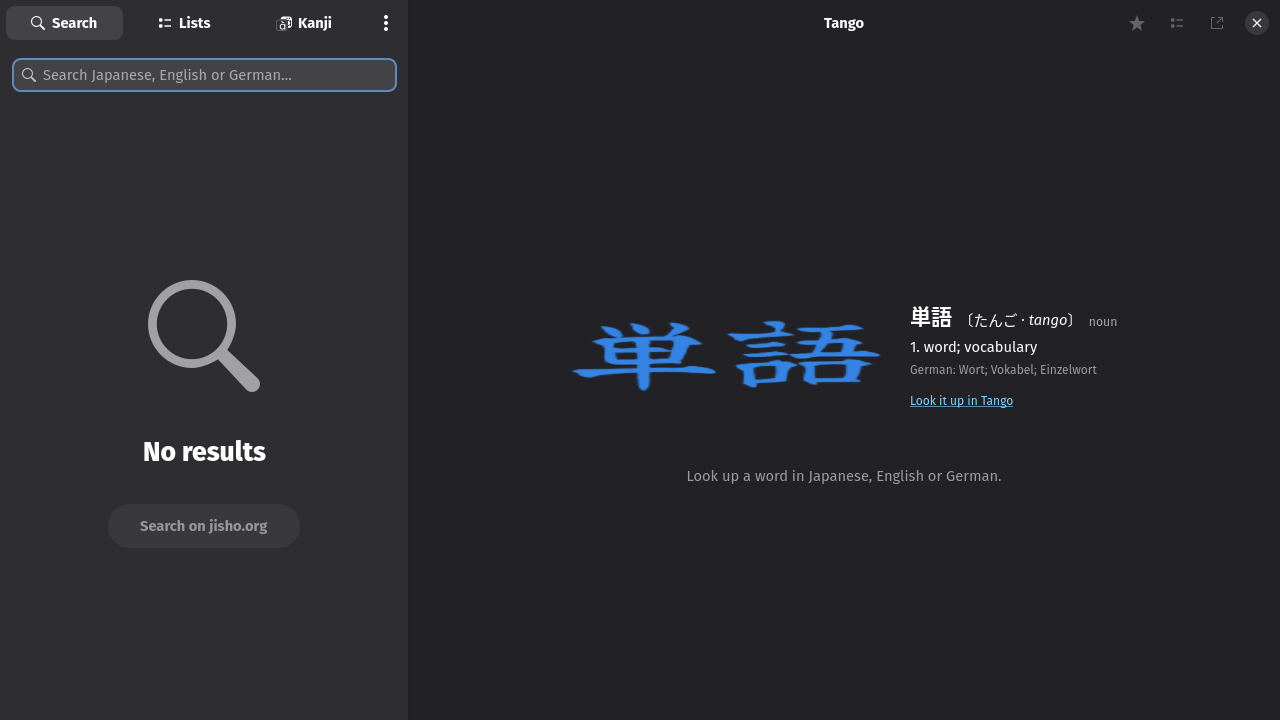
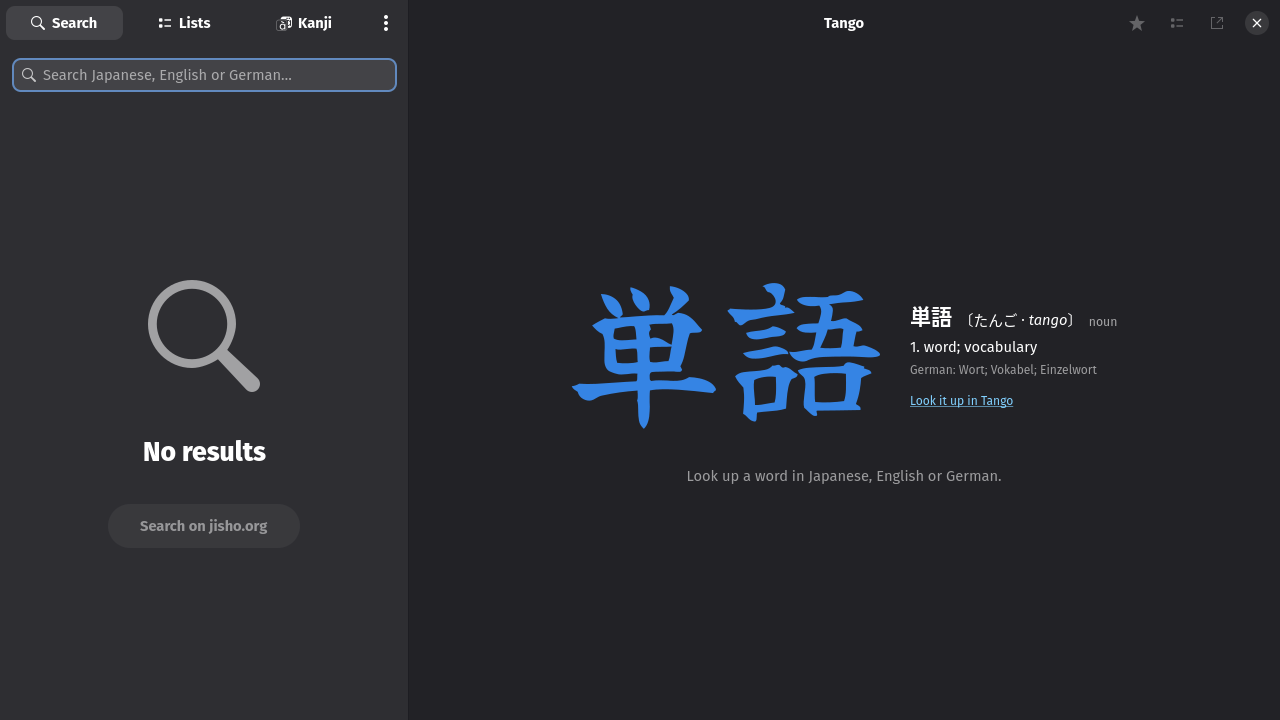
ui: draw the start screen calligraphy with cairo, it was squashed (#88)
Pull request #90

Claude-Session: https://claude.ai/code/session_01Gwn59LpQtxt64Zbwfh7gKE

Changed region(s): [[0.4375, 0.3972, 0.6875, 0.5806]]

diff --git a/src/ui/style.css b/src/ui/style.css
@@ -1,9 +1,5 @@
-/* Start screen (#80): the calligraphy is a symbolic SVG painted in the accent colour;
-   src/ui/start.rs adds the background-image rule with the file's location. */
-.tango-calligraphy {
-  color: @accent_bg_color;
-  background-size: contain; background-repeat: no-repeat; background-position: center;
-}
+/* Start screen (#80): the calligraphy is drawn with cairo in this colour. */
+.tango-calligraphy { color: @accent_bg_color; }
 .tango-calligraphy-fallback { font-size: 110px; color: @accent_bg_color; }
 /* Entry view */
 .tango-headword { font-size: 2.6em; font-weight: 300; }

diff --git a/src/ui/start.rs b/src/ui/start.rs
@@ -1,18 +1,18 @@
 //! The start screen (issue #80): the name of the app as a dictionary entry, with 単語 in
 //! brush calligraphy beside it, the way DenMail introduces itself.
 //!
-//! The calligraphy is a symbolic SVG in `data/icons` (glyph outlines of Yuji Syuku, OFL).
-//! It is painted as a CSS background through `-gtk-recolor`, which fills a symbolic icon
-//! with the node's `color`; the stylesheet sets that to the accent colour, so every theme
-//! gets its own tint and dark or light needs no second file. A `gtk::Image` would do the
-//! recolouring too, but it renders icons into a square, and this one is twice as wide as
-//! it is high.
+//! The calligraphy is `data/calligraphy.svg`, the glyph outlines of Yuji Syuku (OFL),
+//! compiled in and drawn with cairo in a `gtk::DrawingArea`, filled with the widget's CSS
+//! `color` (the accent colour, see style.css). Drawing it ourselves keeps the aspect ratio
+//! at any size and scale factor: GTK renders symbolic icons into a square before it
+//! recolours them, which squashed a 2:1 image (issue #88), and a `gtk::Image` would report a
+//! square size too.
 
 use adw::prelude::*;
-use gtk::{gdk, glib};
+use gtk::{cairo, glib};
 
-/// Icon name of the calligraphy; the SVG sits next to the app icon.
-const CALLIGRAPHY: &str = "io.github.felsenuboot.Tango-calligraphy-symbolic";
+/// The calligraphy: only `<path transform="translate(x y)" d="M … C … L … Z">` elements.
+const SVG: &str = include_str!("../../data/calligraphy.svg");
 /// Size of the calligraphy in logical pixels, the SVG's own aspect ratio.
 const WIDTH: i32 = 312;
 const HEIGHT: i32 = 150;
@@ -97,54 +97,170 @@ fn line(text: &str) -> gtk::Label {
         .build()
 }
 
-/// The calligraphy, or the two characters in a large font when the SVG is not installed.
+/// The calligraphy, drawn with cairo; the plain characters if the SVG does not parse.
 fn calligraphy() -> gtk::Widget {
-    let Some(display) = gdk::Display::default() else {
-        return fallback();
+    let Some(art) = Art::parse(SVG) else {
+        log::warn!("calligraphy SVG did not parse; showing plain text");
+        return gtk::Label::builder()
+            .label("単語")
+            .css_classes(["tango-calligraphy-fallback"])
+            .accessible_role(gtk::AccessibleRole::Presentation)
+            .build()
+            .upcast();
     };
-    let theme = gtk::IconTheme::for_display(&display);
-    if !theme.has_icon(CALLIGRAPHY) {
-        log::warn!("calligraphy icon {CALLIGRAPHY} not found; showing plain text");
-        return fallback();
-    }
-    let icon = theme.lookup_icon(
-        CALLIGRAPHY,
-        &[],
-        HEIGHT,
-        1,
-        gtk::TextDirection::Ltr,
-        gtk::IconLookupFlags::empty(),
-    );
-    let Some(uri) = icon.file().map(|f| f.uri()) else {
-        return fallback();
-    };
-    // The file's location is only known at run time (checkout or install prefix), so this
-    // one rule is added here rather than in style.css.
-    let provider = gtk::CssProvider::new();
-    provider.load_from_string(&format!(
-        ".tango-calligraphy {{ background-image: -gtk-recolor(url(\"{uri}\")); }}"
-    ));
-    gtk::style_context_add_provider_for_display(
-        &display,
-        &provider,
-        gtk::STYLE_PROVIDER_PRIORITY_APPLICATION,
-    );
-    gtk::Box::builder()
-        .width_request(WIDTH)
-        .height_request(HEIGHT)
+    let area = gtk::DrawingArea::builder()
+        .content_width(WIDTH)
+        .content_height(HEIGHT)
         .halign(gtk::Align::Center)
         .valign(gtk::Align::Center)
         .css_classes(["tango-calligraphy"])
         .accessible_role(gtk::AccessibleRole::Presentation)
-        .build()
-        .upcast()
+        .build();
+    area.set_draw_func(move |area, cr, width, height| {
+        let scale = (f64::from(width) / art.width).min(f64::from(height) / art.height);
+        cr.translate(
+            (f64::from(width) - art.width * scale) / 2.0,
+            (f64::from(height) - art.height * scale) / 2.0,
+        );
+        cr.scale(scale, scale);
+        cr.translate(-art.x, -art.y);
+        let colour = area.color();
+        cr.set_source_rgba(
+            f64::from(colour.red()),
+            f64::from(colour.green()),
+            f64::from(colour.blue()),
+            f64::from(colour.alpha()),
+        );
+        art.draw(cr);
+        let _ = cr.fill();
+    });
+    area.upcast()
 }
 
-fn fallback() -> gtk::Widget {
-    gtk::Label::builder()
-        .label("単語")
-        .css_classes(["tango-calligraphy-fallback"])
-        .accessible_role(gtk::AccessibleRole::Presentation)
-        .build()
-        .upcast()
+/// One glyph: where it sits, and its outline as absolute path commands.
+struct Glyph {
+    dx: f64,
+    dy: f64,
+    commands: Vec<Command>,
+}
+
+enum Command {
+    MoveTo(f64, f64),
+    LineTo(f64, f64),
+    CurveTo(f64, f64, f64, f64, f64, f64),
+    Close,
+}
+
+/// The parsed SVG: its viewBox and glyphs.
+struct Art {
+    x: f64,
+    y: f64,
+    width: f64,
+    height: f64,
+    glyphs: Vec<Glyph>,
+}
+
+impl Art {
+    /// Reads the small subset of SVG that tools/calligraphy.py writes. `None` on anything
+    /// unexpected rather than a panic: the file is ours, but a bad regeneration should not
+    /// take the start screen down.
+    fn parse(svg: &str) -> Option<Art> {
+        let view_box = attribute(svg, "viewBox=\"")?;
+        let mut numbers = view_box.split_whitespace().map(str::parse::<f64>);
+        let (x, y, width, height) = (
+            numbers.next()?.ok()?,
+            numbers.next()?.ok()?,
+            numbers.next()?.ok()?,
+            numbers.next()?.ok()?,
+        );
+        let mut glyphs = Vec::new();
+        let mut rest = svg;
+        while let Some(at) = rest.find("<path ") {
+            let element = &rest[at..];
+            let end = element.find("/>")?;
+            let element = &element[..end];
+            let translate = attribute(element, "translate(")?;
+            let mut offsets = translate.split_whitespace().map(str::parse::<f64>);
+            let (dx, dy) = (offsets.next()?.ok()?, offsets.next()?.ok()?);
+            let commands = parse_path(attribute(element, "d=\"")?)?;
+            glyphs.push(Glyph { dx, dy, commands });
+            rest = &rest[at + end..];
+        }
+        (!glyphs.is_empty()).then_some(Art {
+            x,
+            y,
+            width,
+            height,
+            glyphs,
+        })
+    }
+
+    fn draw(&self, cr: &cairo::Context) {
+        for glyph in &self.glyphs {
+            cr.save().ok();
+            cr.translate(glyph.dx, glyph.dy);
+            for command in &glyph.commands {
+                match *command {
+                    Command::MoveTo(x, y) => cr.move_to(x, y),
+                    Command::LineTo(x, y) => cr.line_to(x, y),
+                    Command::CurveTo(x1, y1, x2, y2, x, y) => cr.curve_to(x1, y1, x2, y2, x, y),
+                    Command::Close => cr.close_path(),
+                }
+            }
+            cr.restore().ok();
+        }
+    }
+}
+
+/// The value after `key` up to the closing `"` or `)`.
+fn attribute<'a>(text: &'a str, key: &str) -> Option<&'a str> {
+    let start = text.find(key)? + key.len();
+    let rest = &text[start..];
+    let end = rest.find(['"', ')'])?;
+    Some(&rest[..end])
+}
+
+/// Absolute M, L, C and Z only, as cairo's SVG surface writes them.
+fn parse_path(d: &str) -> Option<Vec<Command>> {
+    let mut commands = Vec::new();
+    let mut tokens = d.split_whitespace().peekable();
+    let number = |tokens: &mut std::iter::Peekable<std::str::SplitWhitespace>| -> Option<f64> {
+        tokens.next()?.parse().ok()
+    };
+    while let Some(token) = tokens.next() {
+        match token {
+            "M" => commands.push(Command::MoveTo(number(&mut tokens)?, number(&mut tokens)?)),
+            "L" => commands.push(Command::LineTo(number(&mut tokens)?, number(&mut tokens)?)),
+            "C" => commands.push(Command::CurveTo(
+                number(&mut tokens)?,
+                number(&mut tokens)?,
+                number(&mut tokens)?,
+                number(&mut tokens)?,
+                number(&mut tokens)?,
+                number(&mut tokens)?,
+            )),
+            "Z" => commands.push(Command::Close),
+            _ => return None,
+        }
+    }
+    Some(commands)
+}
+
+#[cfg(test)]
+mod tests {
+    use super::*;
+
+    #[test]
+    fn the_shipped_calligraphy_parses() {
+        let art = Art::parse(SVG).expect("data/calligraphy.svg parses");
+        assert_eq!(art.glyphs.len(), 2, "単 and 語");
+        assert!(art.width > art.height, "wider than high");
+        assert!(art.glyphs.iter().all(|g| g.commands.len() > 50));
+    }
+
+    #[test]
+    fn unexpected_commands_are_refused() {
+        assert!(parse_path("M 1 2 Q 3 4 5 6").is_none());
+        assert_eq!(parse_path("M 1 2 L 3 4 Z").map(|c| c.len()), Some(3));
+    }
 }

diff --git a/tools/calligraphy.py b/tools/calligraphy.py
@@ -1,12 +1,11 @@
 #!/usr/bin/env python3
 """Renders text in a font file to a flat symbolic SVG (paths only, tight viewBox).
 
-    tools/calligraphy.py YujiSyuku-Regular.ttf 単語 \
-        data/icons/hicolor/scalable/apps/io.github.felsenuboot.Tango-calligraphy-symbolic.svg
+    tools/calligraphy.py YujiSyuku-Regular.ttf 単語 data/calligraphy.svg
 
 Needs pango-view, rsvg-convert and Pillow. The font is not installed anywhere: a throwaway
 fontconfig file points at its directory. cairo writes glyphs as <symbol>/<use> pairs with
-style attributes; GTK's symbolic recolouring wants plain <path> elements, so they are
+style attributes; src/ui/start.rs parses plain <path> elements with M/L/C/Z only, so they are
 flattened, rounded to two decimals and cropped to the ink's bounding box.
 """
 

diff --git a/docs/DEVELOPMENT.md b/docs/DEVELOPMENT.md
@@ -251,18 +251,21 @@ magick -delay 280 -loop 0 start.png entry.png deinflect.png sentence.png wadoku.
 
 ## The start screen calligraphy
 
-`data/icons/hicolor/scalable/apps/io.github.felsenuboot.Tango-calligraphy-symbolic.svg`
-is 単語 set in Yuji Syuku (OFL), flattened to plain paths so GTK can recolour it
-like any symbolic icon. `src/ui/start.rs` paints it as a CSS background with
-`-gtk-recolor`, which follows the theme's accent colour; a `gtk::Image` would
-render it into a square. To regenerate it, fetch the font (not installed
-anywhere, nothing but the outlines ships) and run
+`data/calligraphy.svg` is 単語 set in Yuji Syuku (OFL), flattened to plain
+paths. `src/ui/start.rs` compiles it in and draws the paths with cairo in a
+`DrawingArea`, filled with the CSS `color` (the accent), so it keeps its
+aspect ratio at any size and scale factor; GTK's symbolic-icon pipeline
+renders into a square and squashed it (#88). To regenerate it, fetch the
+font (not installed anywhere, nothing but the outlines ships) and run
 
 ```
 curl -LO https://github.com/google/fonts/raw/main/ofl/yujisyuku/YujiSyuku-Regular.ttf
-tools/calligraphy.py YujiSyuku-Regular.ttf 単語 \
-  data/icons/hicolor/scalable/apps/io.github.felsenuboot.Tango-calligraphy-symbolic.svg
+tools/calligraphy.py YujiSyuku-Regular.ttf 単語 data/calligraphy.svg
+rsvg-convert -w 560 --stylesheet <(echo 'path{fill:#d9553f}') -o data/calligraphy.png data/calligraphy.svg
 ```
+
+The PNG is the tour's header; `tools/calligraphy.py` writes only the M, L, C
+and Z commands the parser in `start.rs` understands.
 
 ## Hyprland and popups
 

diff --git a/README.md b/README.md
@@ -105,7 +105,7 @@ bundled with the app.
 
 The 単語 calligraphy on the start screen is set in
 [Yuji Syuku](https://github.com/Kinutafontfactory/Yuji) (SIL Open Font
-License 1.1); only the two glyph outlines ship, as an SVG.
+License 1.1); only the two glyph outlines ship (`data/calligraphy.svg`).
 
 ## Roadmap
 
